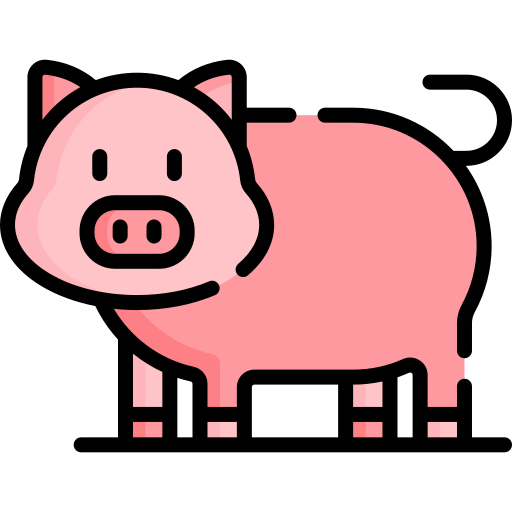
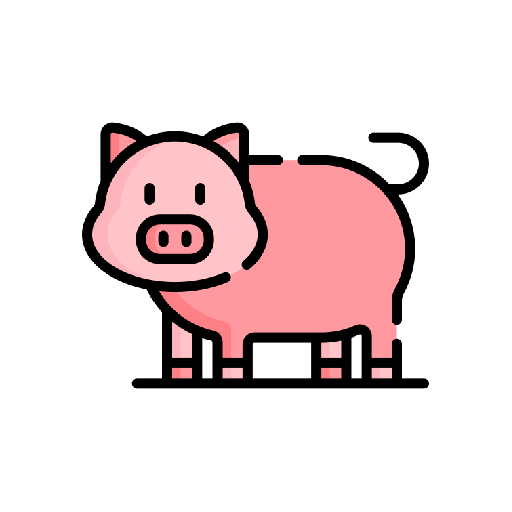
Add files via upload

diff --git a/index.html b/index.html
@@ -69,22 +69,31 @@
       <p class="show-text-left"><span class="show-title">Artichoke </span>Lorem ipsum dolor sit amet, consectetur adipiscing elit, sed do eiusmod tempor incididunt ut labore et dolore magna aliqua.</p>
       <img class="show-img-right" src="images/polaroid.png" alt="">
       <p class="show-text-right"><span class="show-title">Analog </span>Lorem ipsum dolor sit amet, consectetur adipiscing elit, sed do eiusmod tempor incididunt ut labore et dolore magna aliqua.</p>
-
+      <img class="show-img-left" src="images/wildebeest.png" alt="">
+      <p class="show-text-left"><span class="show-title">Migrating animals </span>Lorem ipsum dolor sit amet, consectetur adipiscing elit, sed do eiusmod tempor incididunt ut labore et dolore magna aliqua.</p>
     </div>
   </div>
 
   <!-- My work collapsed Container -->
 
   <details>
-    <summary> See more of my work</summary>
+    <summary> Show more</summary>
 
     <div class="mywork-collapsed-container">
 
       <div class="show-container">
-        <img class="show-img-left" src="images/artichoke.png" alt="">
-        <p class="show-text-left">Lorem ipsum dolor sit amet, consectetur adipiscing elit, sed do eiusmod tempor incididunt ut labore et dolore magna aliqua. Ut enim ad minim veniam.</p>
-        <img class="show-img-right" src="images/artichoke.png" alt="">
-        <p class="show-text-right">Lorem ipsum dolor sit amet, consectetur adipiscing elit, sed do eiusmod tempor incididunt ut labore et dolore magna aliqua. Ut enim ad minim veniam. Lorem ipsum dolor sit amet, consectetur adipiscing elit, sed do eiusmod tempor incididunt ut labore et dolore magna aliqua. Ut enim ad minim veniam.</p>
+        <img class="show-img-left" src="images/duck.png" alt="">
+        <p class="show-text-left"><span class="show-title">Evolution of Beauty </span>Lorem ipsum dolor sit amet, consectetur adipiscing elit, sed do eiusmod tempor incididunt ut labore et dolore magna aliqua. Ut enim ad minim veniam.</p>
+        <img class="show-img-right" src="images/house.png" alt="">
+        <p class="show-text-right"><span class="show-title">Kleingarten </span>Lorem ipsum dolor sit amet, consectetur adipiscing elit, sed do eiusmod tempor incididunt ut labore et dolore magna aliqua. Ut enim ad minim veniam. Lorem ipsum dolor sit amet, consectetur adipiscing elit, sed do eiusmod tempor incididunt ut labore et dolore magna aliqua. Ut enim ad minim veniam.</p>
+        <img class="show-img-left" src="images/forest.png" alt="">
+        <p class="show-text-left"><span class="show-title">Zukunft Wald </span>Lorem ipsum dolor sit amet, consectetur adipiscing elit, sed do eiusmod tempor incididunt ut labore et dolore magna aliqua. Ut enim ad minim veniam.</p>
+        <img class="show-img-right" src="images/pig.png" alt="">
+        <p class="show-text-right"><span class="show-title">Agriculture </span>Lorem ipsum dolor sit amet, consectetur adipiscing elit, sed do eiusmod tempor incididunt ut labore et dolore magna aliqua. Ut enim ad minim veniam. Lorem ipsum dolor sit amet, consectetur adipiscing elit, sed do eiusmod tempor incididunt ut labore et dolore magna aliqua. Ut enim ad minim veniam.</p>
+        <img class="show-img-left" src="images/poison.png" alt="">
+        <p class="show-text-left"><span class="show-title">Toxins </span>Lorem ipsum dolor sit amet, consectetur adipiscing elit, sed do eiusmod tempor incididunt ut labore et dolore magna aliqua. Ut enim ad minim veniam.</p>
+        <img class="show-img-right" src="images/bullfinch.png" alt="">
+        <p class="show-text-right"><span class="show-title">Gimpel </span>Lorem ipsum dolor sit amet, consectetur adipiscing elit, sed do eiusmod tempor incididunt ut labore et dolore magna aliqua. Ut enim ad minim veniam. Lorem ipsum dolor sit amet, consectetur adipiscing elit, sed do eiusmod tempor incididunt ut labore et dolore magna aliqua. Ut enim ad minim veniam.</p>
 
       </div>
     </div>

diff --git a/css/styles.css b/css/styles.css
@@ -89,17 +89,17 @@ h2 {
     width: 70%;
     text-align: center;
     margin: 30px auto 0;
-    font-size: 120%;
+    font-size: 140%;
   }
 }
 
 
 summary {
-  color: #30475E;
+  color: grey;
   text-align: center;
   /* list-style: none; */
-  font-weight: 400;
-  padding-bottom: 20px;
+  font-weight: 500;
+  padding-bottom: 30px;
 }
 
 .mywork-container {
@@ -125,7 +125,7 @@ summary {
     width: 70%;
     margin: auto;
     padding: 2%;
-    font-size: 110%;
+    font-size: 140%;
   }
 }
 
@@ -156,7 +156,7 @@ summary {
 }
 
 .show-text-right {
-  padding: 0 0 25px;
+  padding: 0 0 40px;
   text-align: right;
 
 }
@@ -192,6 +192,7 @@ text-align: center;
   background: #e6e3e6;
   text-decoration: none;
 }
+
 
 .copyright {
   font-size: 0.9rem;
